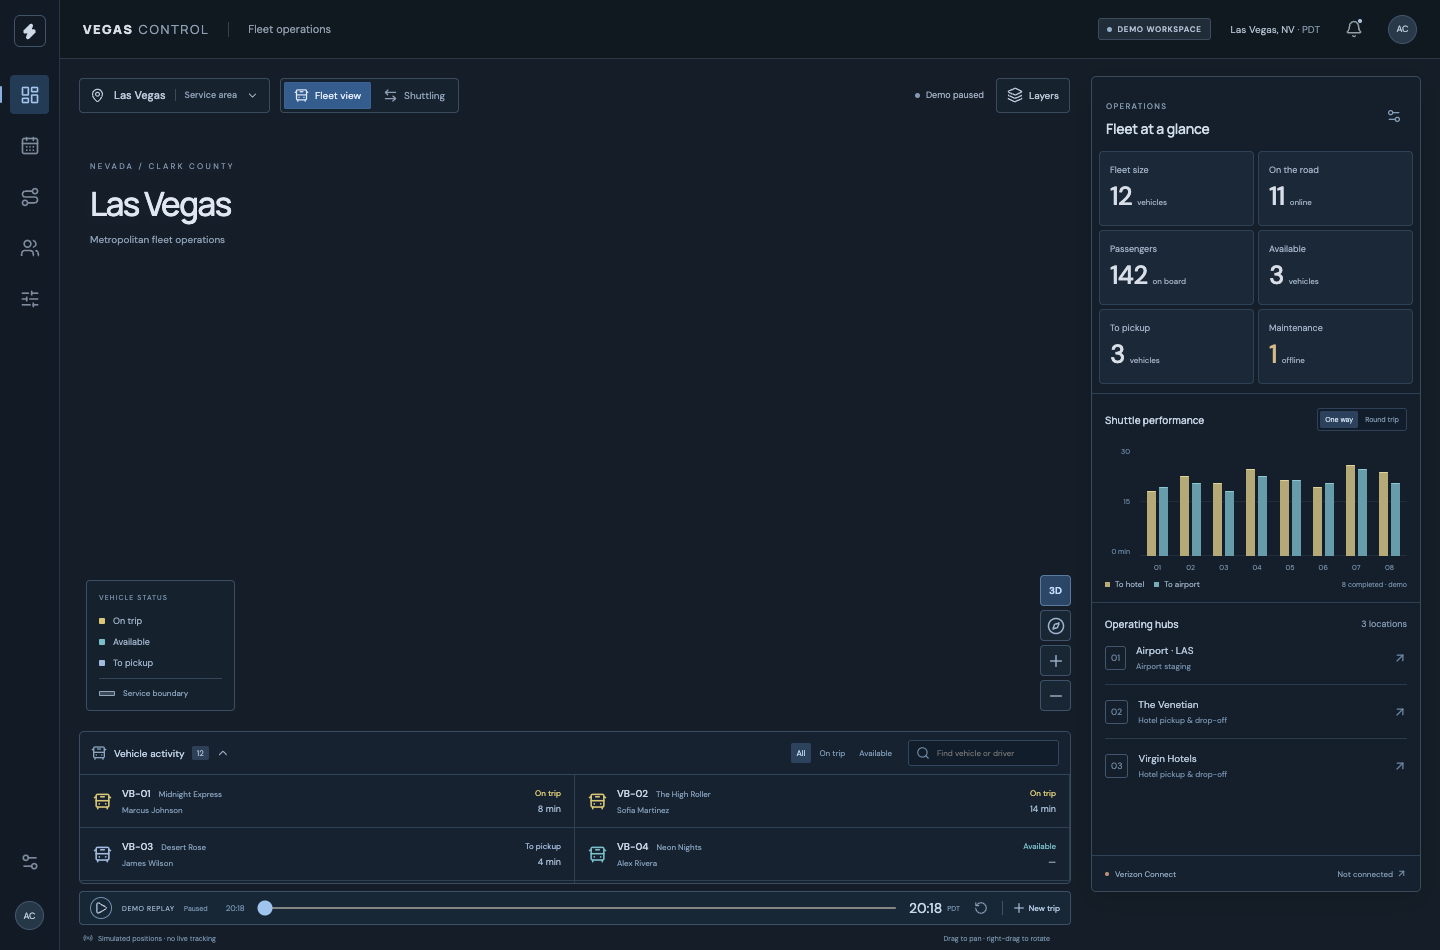
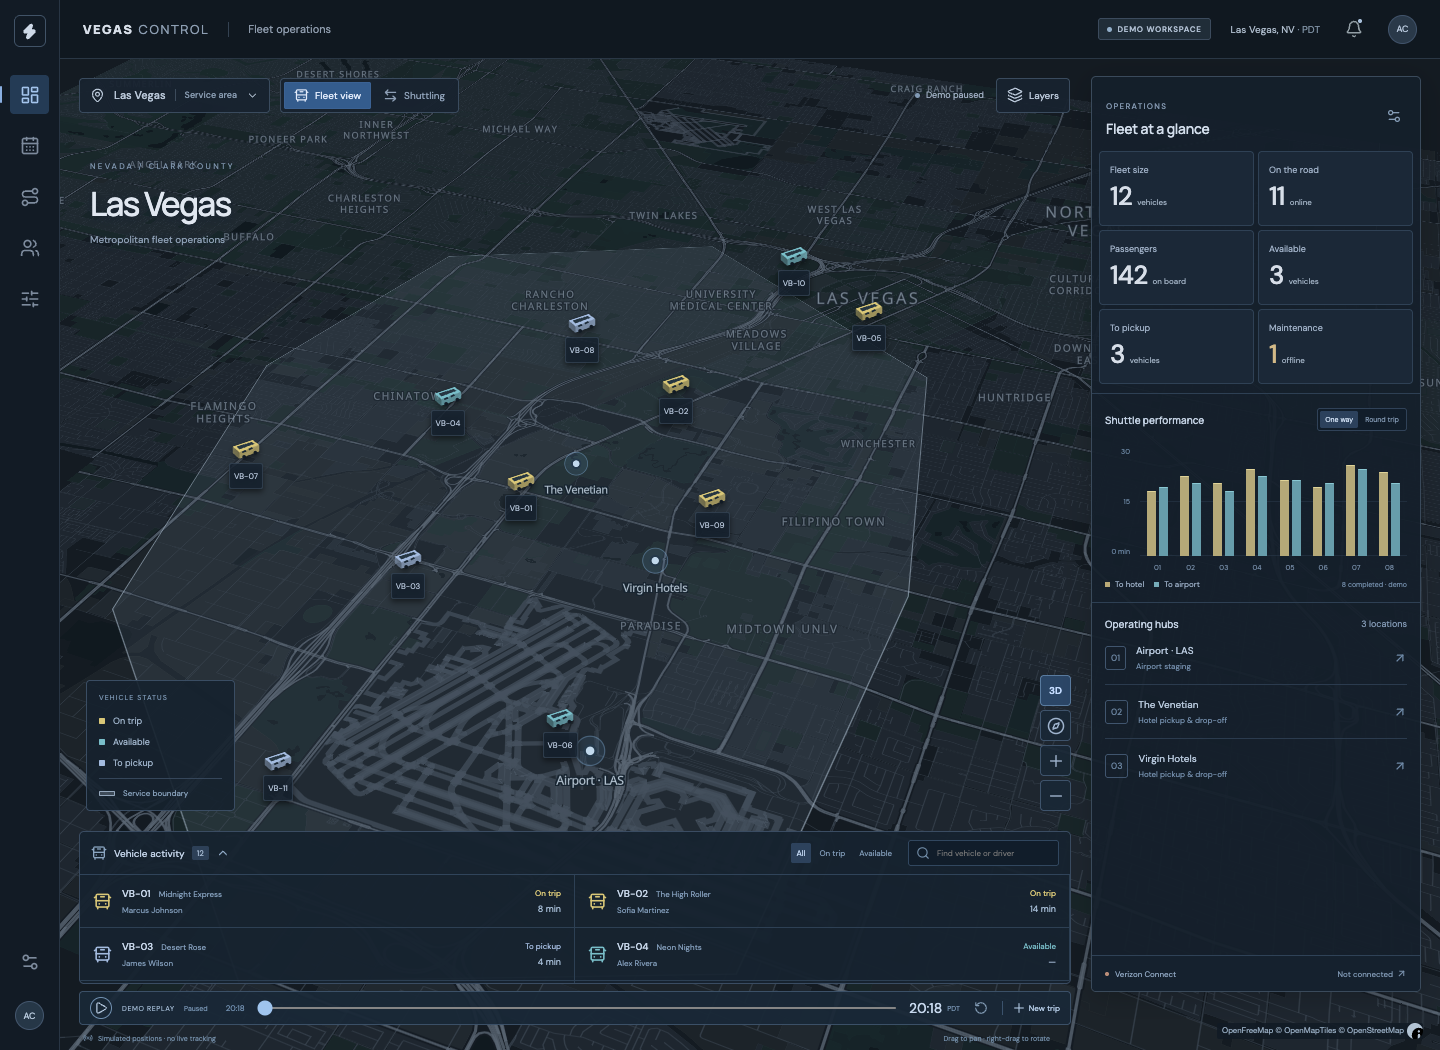
Fix the fleet map collapsing to zero height after MapLibre CSS loads.

diff --git a/tests/operations.spec.ts b/tests/operations.spec.ts
@@ -27,6 +27,34 @@ test("dispatch validates capacity, saves a trip, persists, and completes it", as
   await trip.getByRole("button", { name: "Complete trip" }).click();
   await expect(trip).toContainText("Completed");
 });
+test("fleet map fills the canvas so vehicles stay visible", async ({
+  page,
+}) => {
+  await page.setViewportSize({ width: 1440, height: 900 });
+  await page.goto("/");
+  await expect(page.locator('[data-map-ready="true"]')).toBeVisible({
+    timeout: 30000,
+  });
+  const sizes = await page.evaluate(() => {
+    const map = document.querySelector(".vector-map");
+    const renderer = document.querySelector(".map-renderer");
+    const marker = document.querySelector(".map-bus");
+    return {
+      mapH: map?.getBoundingClientRect().height ?? 0,
+      rendererH: renderer?.getBoundingClientRect().height ?? 0,
+      markerH: marker?.getBoundingClientRect().height ?? 0,
+      markerVisible: marker
+        ? getComputedStyle(marker).visibility === "visible" &&
+          getComputedStyle(marker).opacity !== "0"
+        : false,
+    };
+  });
+  expect(sizes.rendererH).toBeGreaterThan(400);
+  expect(sizes.mapH).toBeGreaterThan(400);
+  expect(Math.abs(sizes.mapH - sizes.rendererH)).toBeLessThan(2);
+  expect(sizes.markerH).toBeGreaterThan(20);
+  expect(sizes.markerVisible).toBeTruthy();
+});
 test("3D map controls, filtering and shuttle boarding work", async ({
   page,
 }) => {

diff --git a/src/components/Operations.css b/src/components/Operations.css
@@ -141,9 +141,12 @@
   font-family: "DM Sans", sans-serif;
 }
 .map-renderer,
-.vector-map {
+.vector-map,
+.map-renderer .maplibregl-map {
   position: absolute;
   inset: 0;
+  width: 100%;
+  height: 100%;
 }
 .map-renderer {
   z-index: 0;
